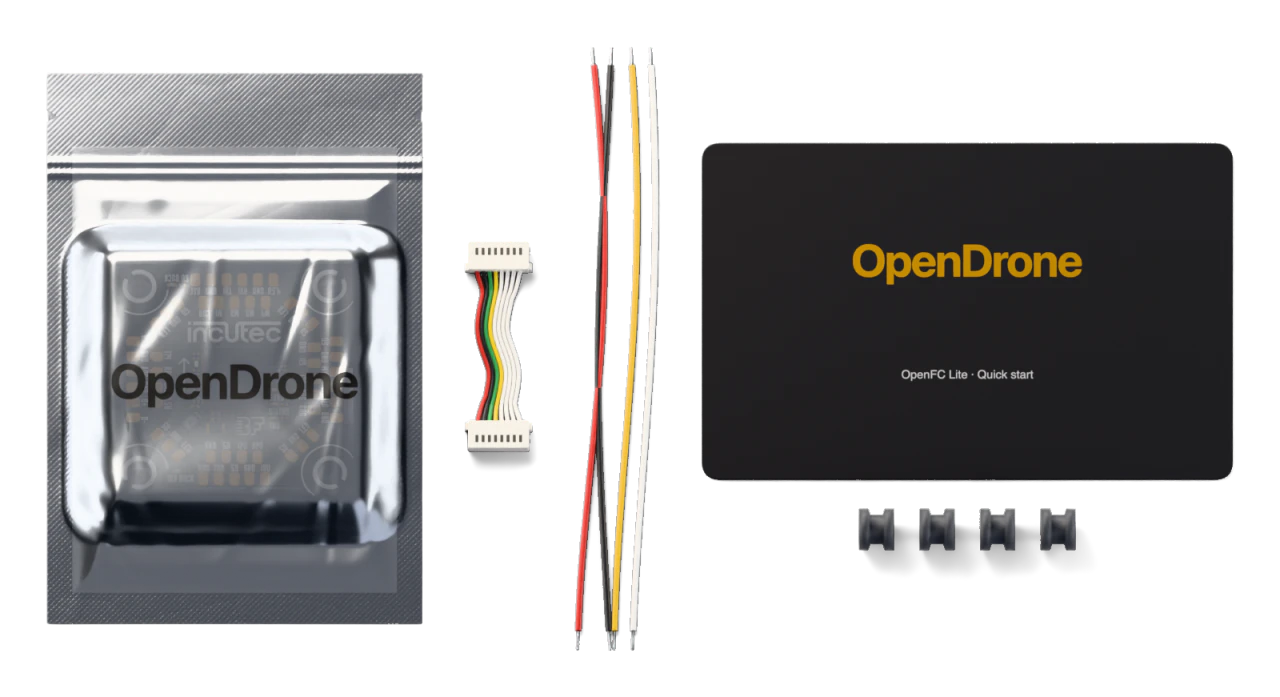
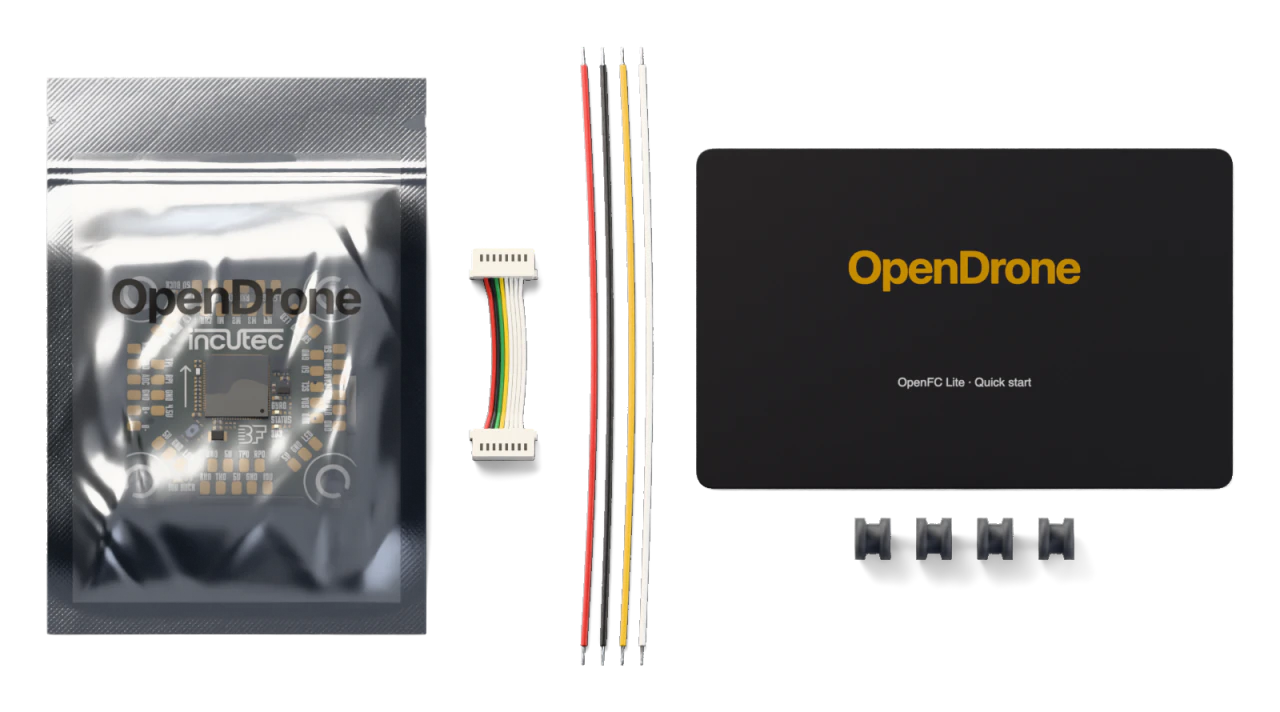
Render final in-the-box images for OpenFC Lite and OpenESC
Re-render openfc-lite 20x20/30x30 and openesc 20x20/30x30 with the straight
JST-SH cable, loose ESD bag and straight wire leads. Remove an unused
variable in jstCable that failed lint.

diff --git a/scripts/in-the-box/procedural.js b/scripts/in-the-box/procedural.js
@@ -818,7 +818,6 @@ function jstCable(p, ctx) {
   const gold = ctx.material('gold', '#e2b24e');
   const cols = p.colors ?? ['#c42a22', '#17181b', '#2f8f4b', '#e2c200', '#ecebe6', '#ecebe6', '#ecebe6', '#ecebe6'];
   const z0 = -run / 2;
-  const z1 = run / 2;
   const parts = [];
   for (const end of [-1, 1]) {
     const zc = end * (run / 2 + hd / 2);
